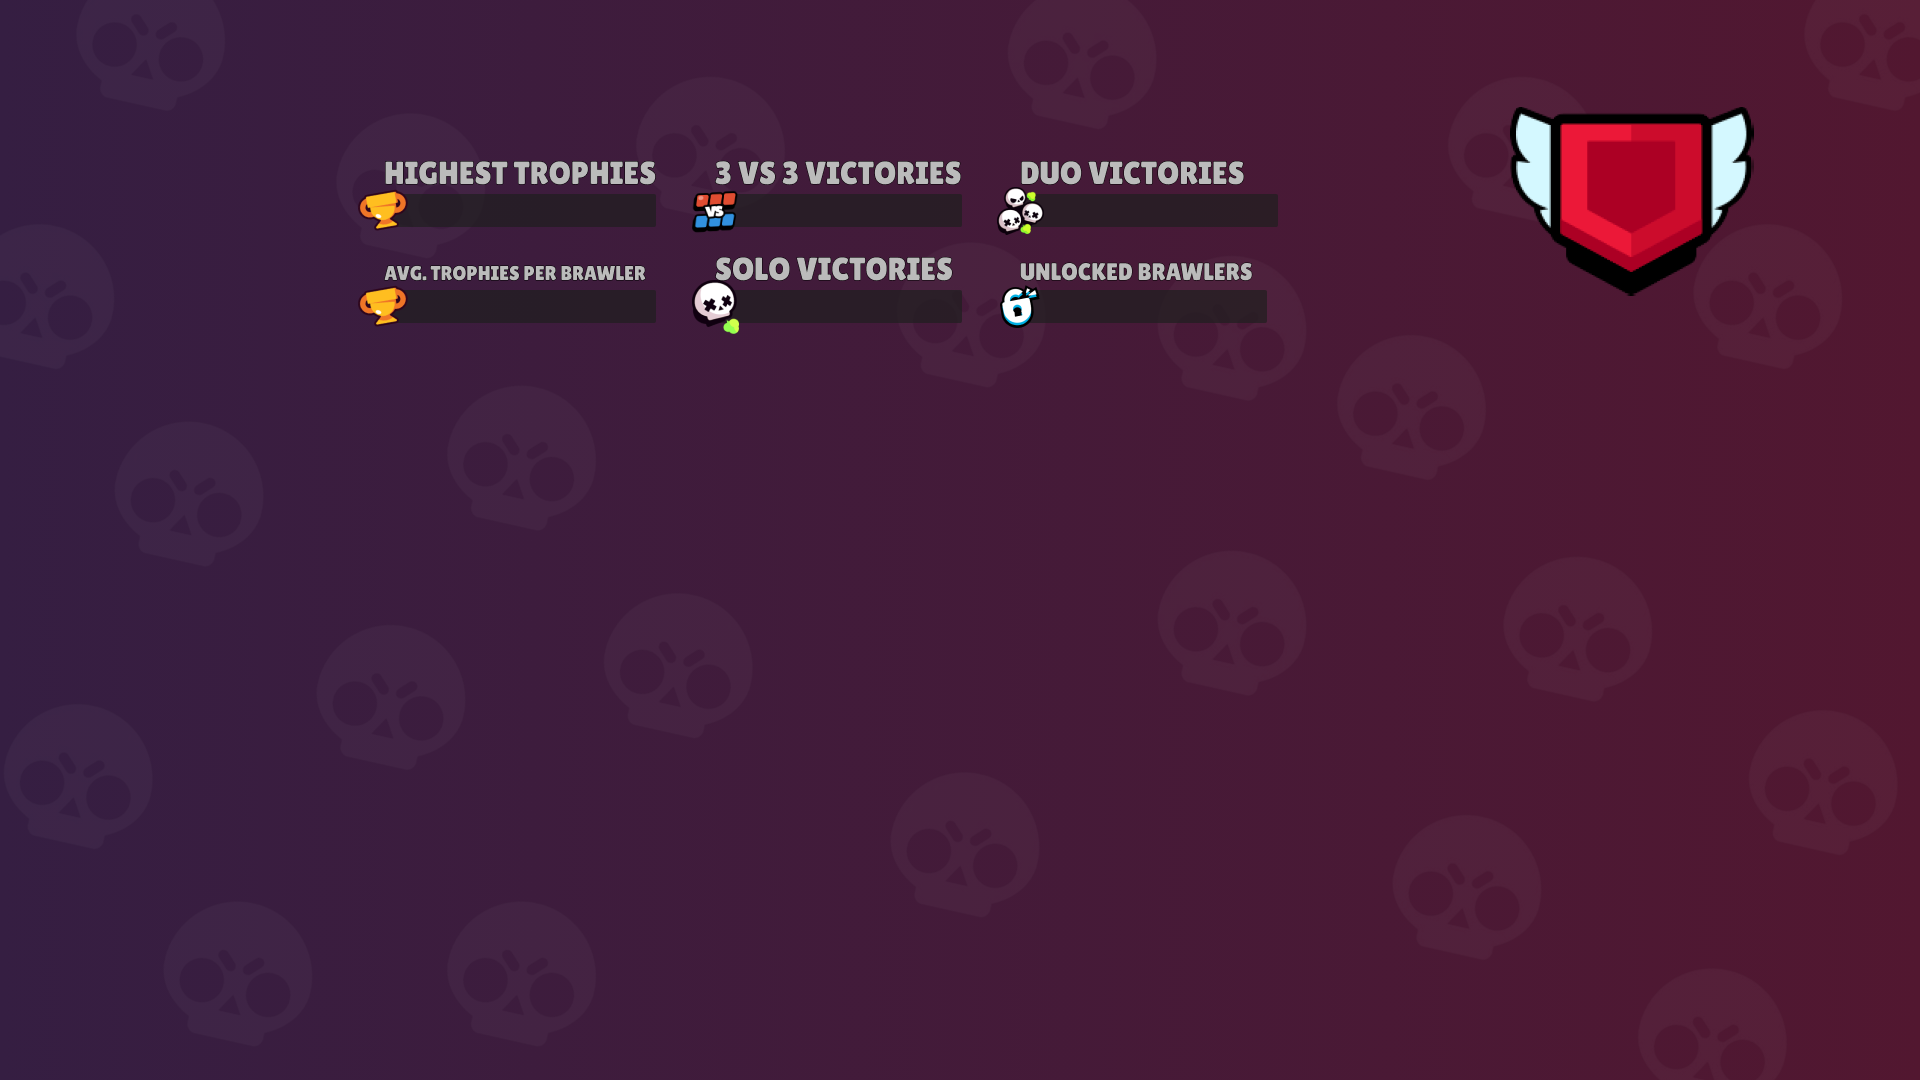
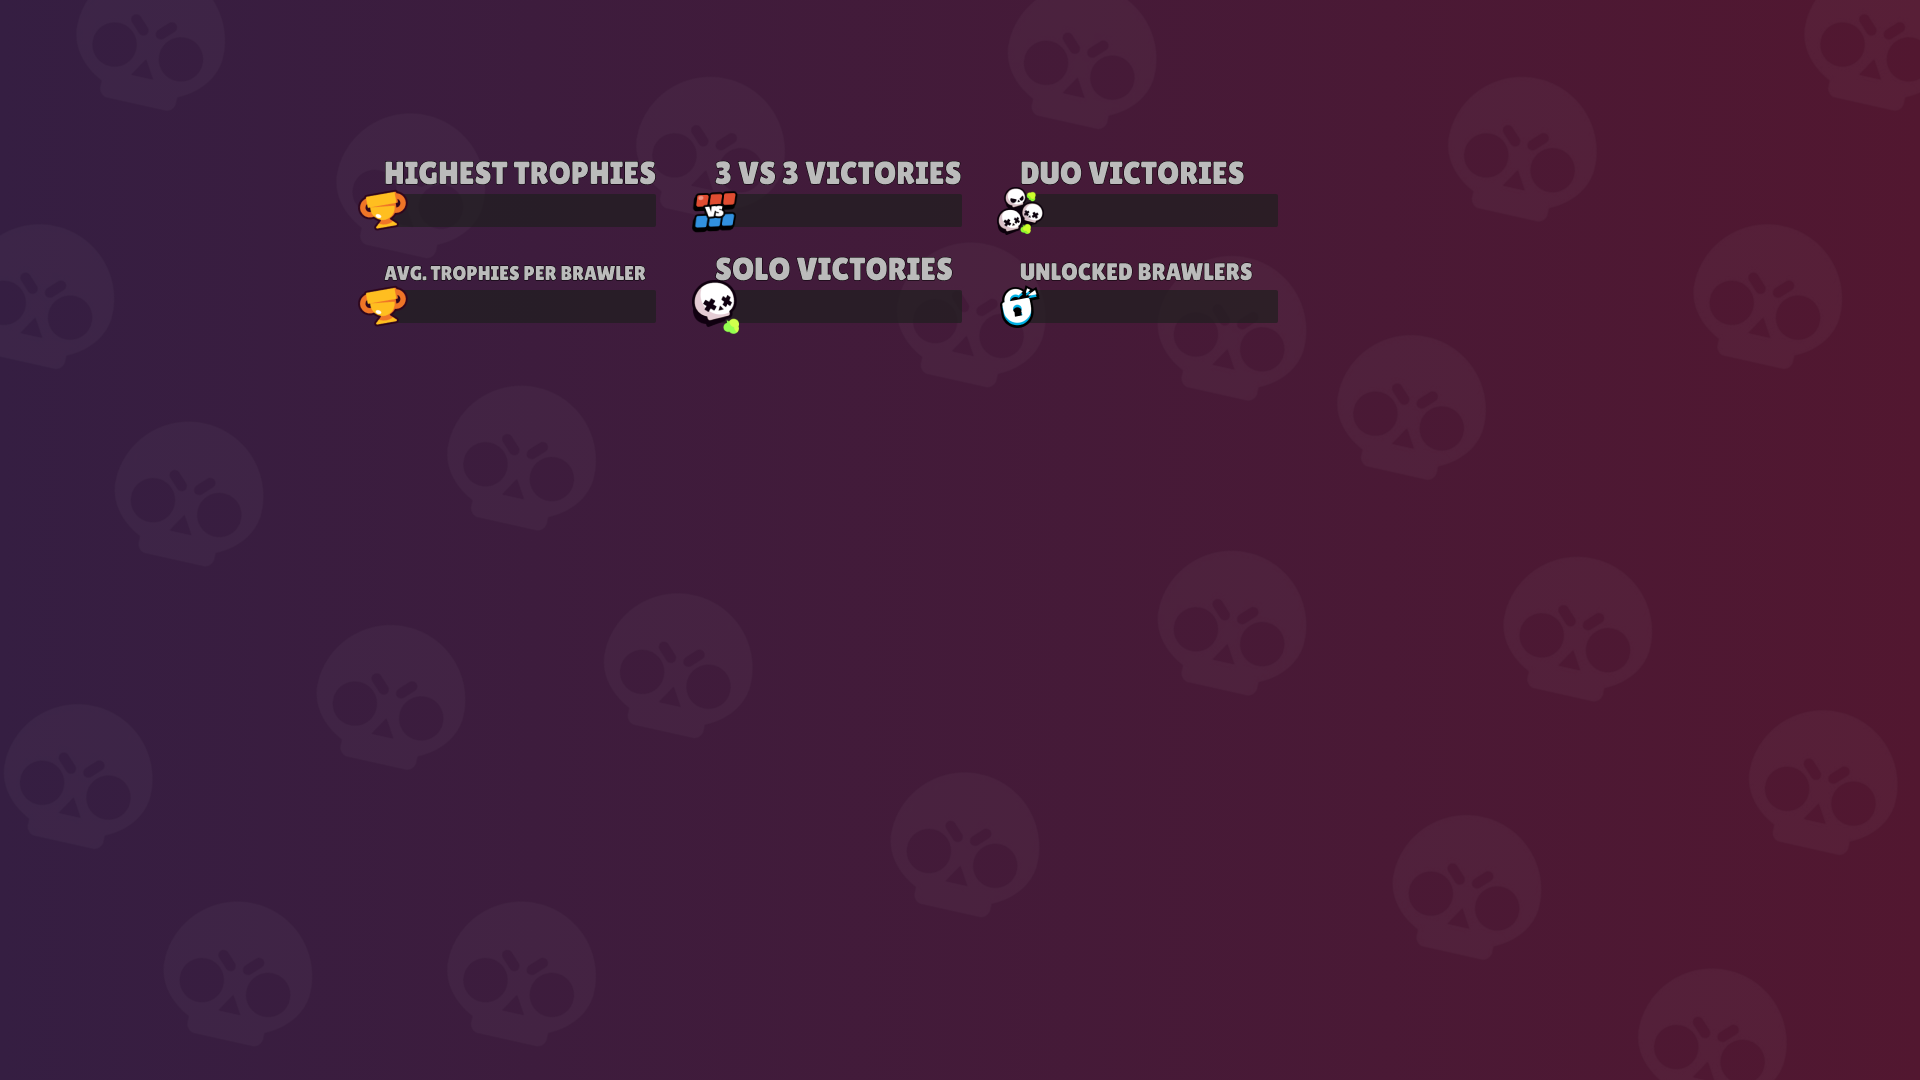
Update the generation of the player's profile image

Changed region(s): [[0.7812, 0.0917, 0.9375, 0.275], [0.6562, 0.275, 0.6875, 0.3056]]

diff --git a/src/utils/images/profile.ts b/src/utils/images/profile.ts
@@ -4,10 +4,11 @@ import { join } from 'path';
 import { Player } from '../../package';
 import { getBrawler, getIcon } from '../functions';
 import sharp from 'sharp';
+import { UsingClient } from 'seyfert';
 
 const background = join(process.cwd(), 'assets', 'images', 'bg.png');
 
-export async function makeProfileImage(player: Player) {
+export async function makeProfileImage(client: UsingClient, player: Player) {
   const canvas = await Image.decode(await readFile(background));
   const boldFont = await readFile(
     join(process.cwd(), 'assets', 'fonts', 'LilitaOne-Regular.ttf')
@@ -32,7 +33,7 @@ export async function makeProfileImage(player: Player) {
   const highestTrophies = await Image.renderText(
     boldFont,
     24,
-    player.highestTrophies.toLocaleString(),
+    `${player.highestTrophies.toLocaleString()} (${player.trophies.toLocaleString()})`,
     0xffffffff
   );
   canvas.composite(
@@ -62,7 +63,7 @@ export async function makeProfileImage(player: Player) {
   );
 
   // 3vs3 VICTORIES
-  const posX3 = 715 + 247 / 2;
+  const posX3 = 704 + 258 / 2;
   const posY3 = 194 + 33 / 2;
   const _3vs3Victories = await Image.renderText(
     boldFont,
@@ -122,15 +123,27 @@ export async function makeProfileImage(player: Player) {
   );
 
   // CLUB
-  const posX7 = 1510 + 244 / 2;
-  const posY7 = 107 + 189 / 2 - 123;
-  const club = await Image.renderText(
-    boldFont,
-    40,
-    player.club.name ?? 'No Club',
-    0xffffffff
-  );
-  canvas.composite(club, posX7 - club.width / 2, posY7 - club.height / 2);
+  if (player.club.name) {
+    const posX7 = 1424 + 244 / 2;
+    const posY7 = 134 + 189 / 2 - 123;
+    const club = await Image.renderText(
+      boldFont,
+      40,
+      player.club.name ?? 'No Club',
+      0xbbbbbbbb
+    );
+    canvas.composite(club, posX7 - club.width / 2, posY7 - club.height / 2);
+
+    // CLUB ICON
+    const clubData = await client.api.clubs.get(player.club.tag);
+    const icon = `https://cdn-old.brawlify.com/club/${clubData.badgeId}.png`;
+    const fetchIcon = await fetch(icon).then((res) => res.arrayBuffer());
+    const resizedIcon = await sharp(Buffer.from(fetchIcon))
+      .resize(150, 168)
+      .toBuffer();
+    const clubIcon = await Image.decode(resizedIcon);
+    canvas.composite(clubIcon, posX7 - clubIcon.width / 2, 154);
+  }
 
   const chunkBrawlers = chunk(
     player

diff --git a/src/commands/player/profile.ts b/src/commands/player/profile.ts
@@ -40,7 +40,7 @@ export default class Profile extends SubCommand {
       });
     }
 
-    const buffer = await makeProfileImage(player);
+    const buffer = await makeProfileImage(ctx.client, player);
 
     await ctx.editOrReply({
       content: `${player.name} ([${
